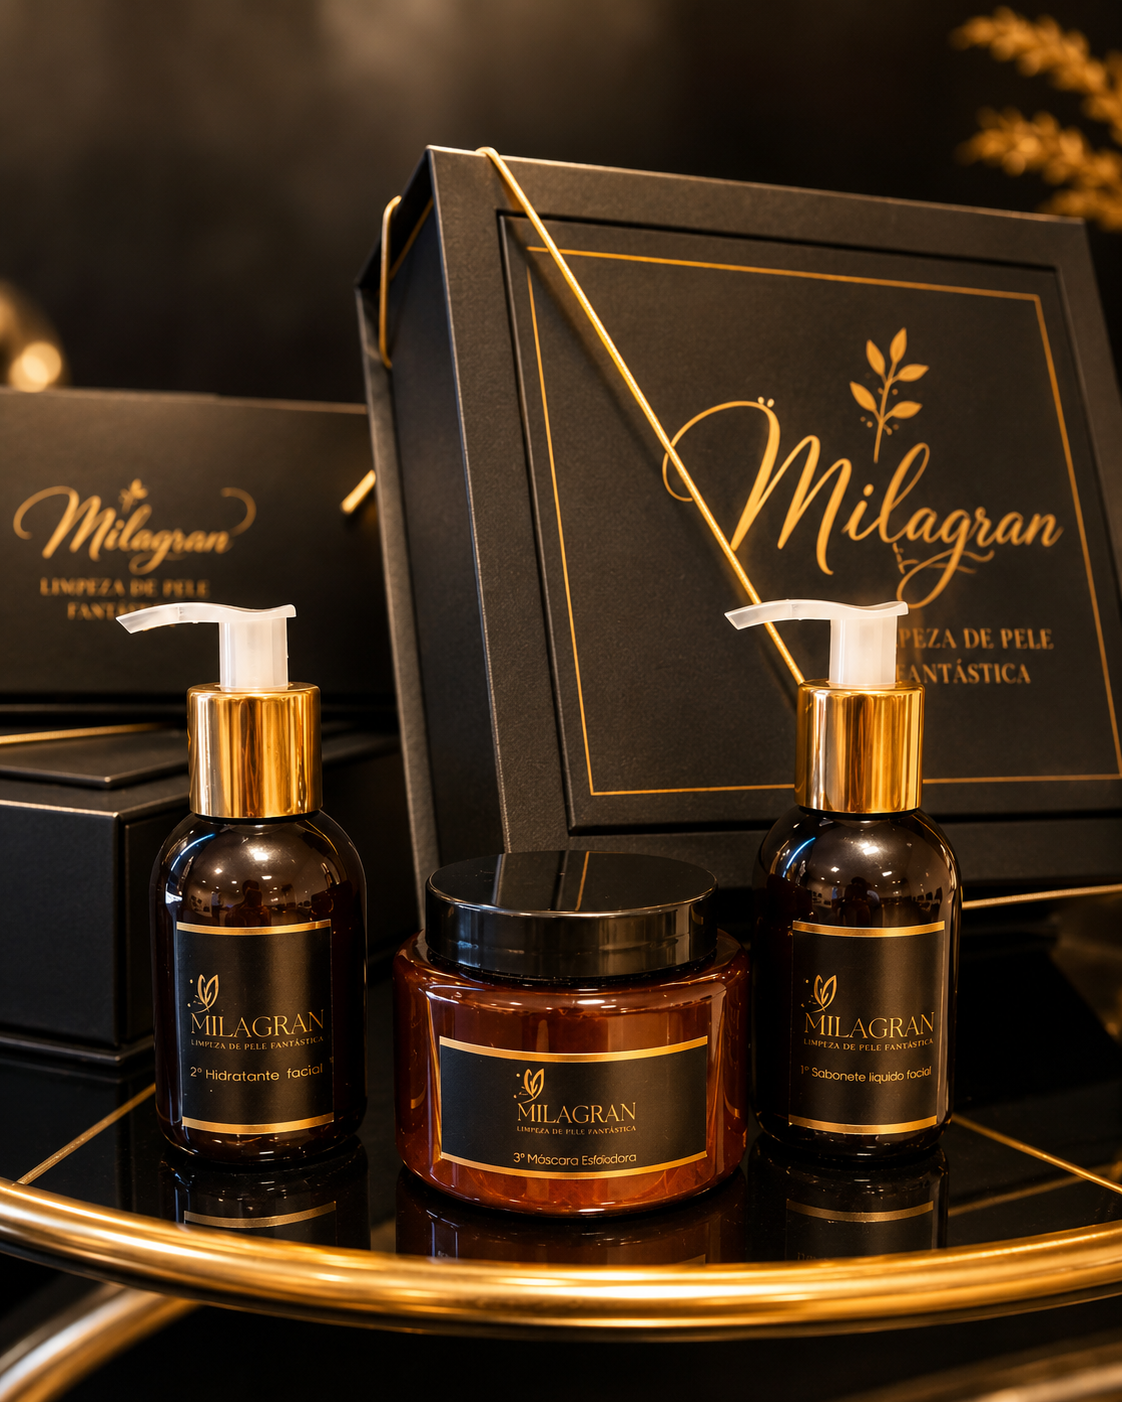
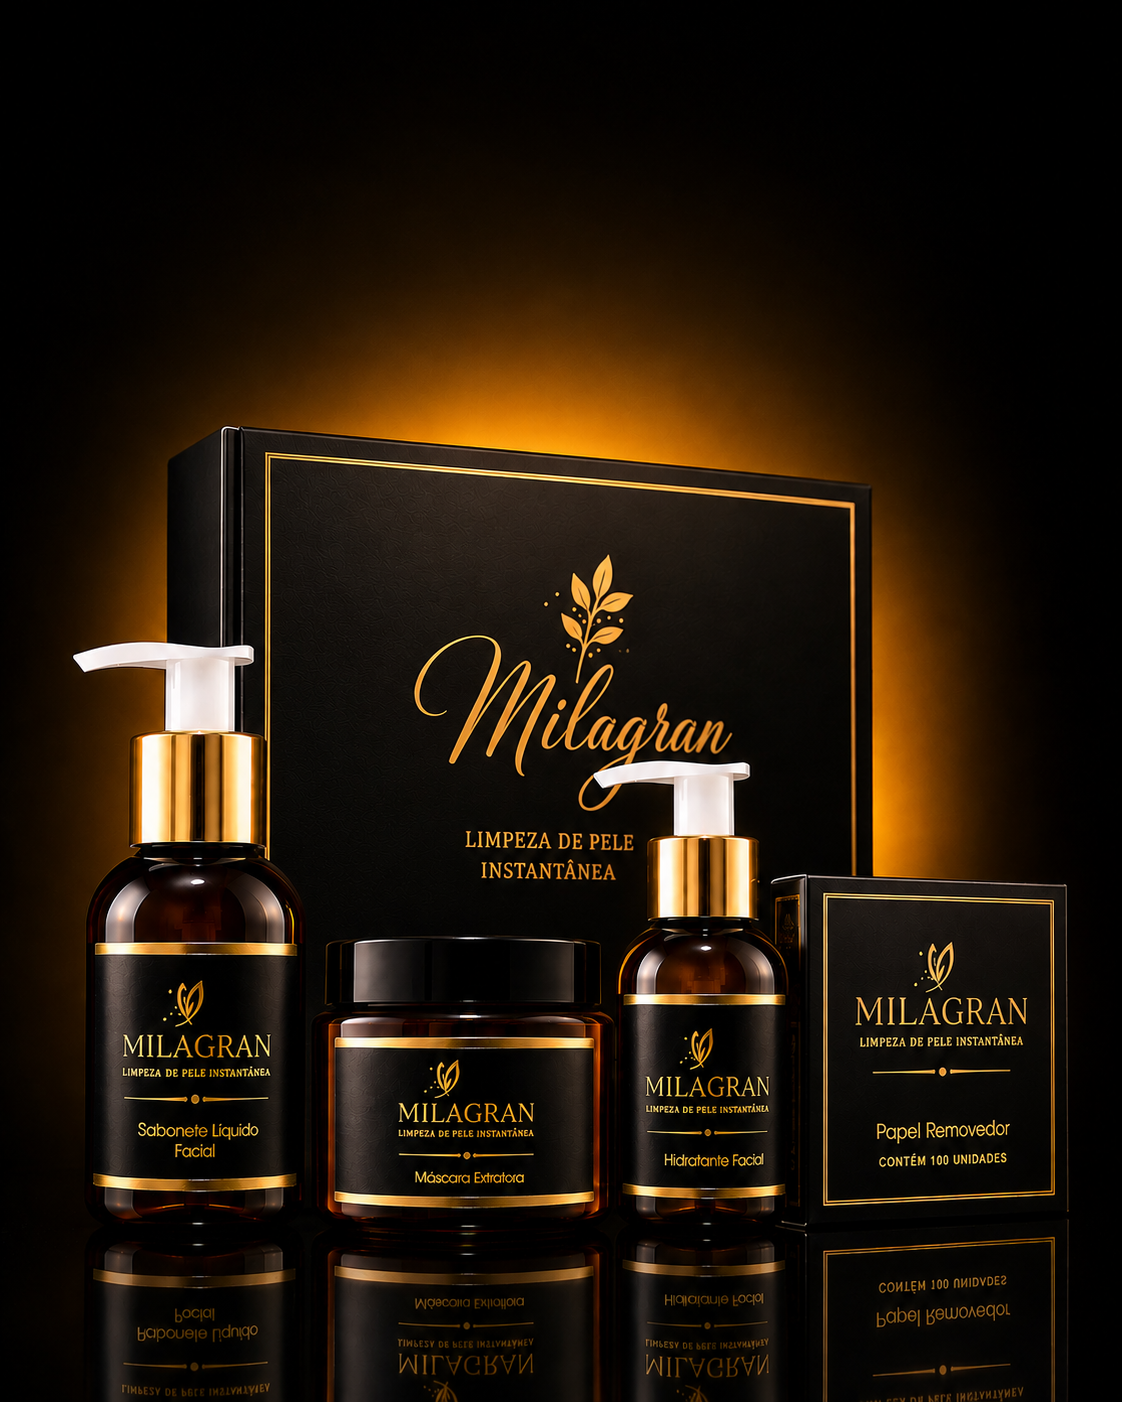
Swap the hero for the shot with the whole kit in frame
The new photograph shows the box and all four products, each label legible.
The previous one had the box and three items, with the papel removedor out of
frame.

SO THE ALT TEXT CHANGED WITH IT, and that is the part worth naming. The old
description listed three products and the code carried a comment explaining why
the fourth was missing from it. Replacing the file and leaving that line alone
is the quiet way a description rots: nothing breaks, nothing warns, and the one
person who depends on the alt starts receiving an inventory that does not match
the picture.

Same pipeline: 1100px, WebP 84, 1.5 MB down to 93 KB — slightly smaller than
the photo it replaces despite holding more.

A NOTE FROM COMPARING QUALITIES A SECOND TIME, written into the manifest so it
does not cost the same detour again: amplifying the dark gradient 3.5x makes
q84 look blocky and alarming. At real brightness — which is how the buyer sees
it — q84 and q90 are indistinguishable, because the artefact lives in
near-black values nobody perceives. Compare at real brightness before spending
the extra 30 KB.

The previous hero master is replaced in design/ and stays recoverable in git
history.

diff --git a/src/lib/fotos.ts b/src/lib/fotos.ts
@@ -47,13 +47,20 @@
  * somavam 6,5 MB e as publicadas somam 127 KB.
  *
  * COMO A DO HERO FOI PREPARADA, para as proximas seguirem o mesmo caminho: o
- * arquivo original tinha 1,9 MB em PNG. Foi reduzido para 1100px de largura —
+ * arquivo original tinha 1,5 MB em PNG. Foi reduzido para 1100px de largura —
  * o dobro da coluna em que ele aparece no desktop (~490px), o que cobre tela
- * de densidade 2x — e salvo em WebP com qualidade 84, chegando a 121 KB. As
- * qualidades 78/84/90 foram comparadas: 84 e onde a curva para de valer a pena,
- * e os gradientes escuros da foto (onde WebP costuma criar bandas) foram
- * conferidos ampliados antes de publicar. Os originais ficam em `design/`, para
- * que um recorte novo saia da foto e nao de um JPEG ja comprimido.
+ * de densidade 2x — e salvo em WebP com qualidade 84, chegando a 93 KB. As
+ * qualidades 78/84/90 foram comparadas duas vezes (a foto do hero foi trocada
+ * em 20/08/2026) e 84 venceu nas duas.
+ *
+ * UMA LICAO DA SEGUNDA COMPARACAO, para nao custar tempo de novo: ampliar o
+ * gradiente escuro em 3,5x faz o q84 parecer blocado e assusta. No brilho REAL
+ * — que e como a compradora ve — q84 e q90 sao indistinguiveis, e o artefato
+ * vive em valores quase pretos que ninguem percebe. Compare no brilho real
+ * antes de gastar 30 KB a mais.
+ *
+ * Os originais ficam em `design/`, para que um recorte novo saia da foto e nao
+ * de um JPEG ja comprimido.
  *
  * TAMANHO. A foto do hero e a unica com `preload` (§33): ela e o maior
  * elemento acima da dobra e define o LCP. Mire abaixo de 250 KB nela; as
@@ -80,14 +87,21 @@ export type Foto = {
 export const FOTO_HERO: Foto = {
   src: '/assets/kit/kit-milagran-hero.webp',
   /*
-    O `alt` DESCREVE O QUE A FOTO MOSTRA, e nao o que gostariamos que ela
-    mostrasse: sao a caixa e TRES frascos. O papel removedor, que e o quarto
-    item do kit, nao aparece nesta imagem — prometer os quatro aqui seria a
-    unica pessoa que depende do `alt` recebendo uma descricao que nao bate com
-    a foto ao lado do texto.
+    O `alt` DESCREVE O QUE A FOTO MOSTRA, e ele MUDOU JUNTO COM A FOTO em
+    20/08/2026.
+    A imagem anterior trazia a caixa e apenas tres itens, e este texto dizia
+    isso, com o comentario explicando que o papel removedor ficava de fora. A
+    nova mostra o kit COMPLETO — os quatro produtos, cada um com o rotulo
+    legivel.
+
+    Trocar o arquivo sem trocar esta linha e o jeito silencioso de a descricao
+    apodrecer: nada quebra, nada avisa, e quem depende do texto alternativo
+    passa a receber um inventario que nao bate com a foto. E o mesmo cuidado
+    que o `alt` do papel removedor exige logo abaixo.
   */
-  alt: 'A caixa preta do Kit Milagran, com o nome em dourado, ao lado dos frascos '
-    + 'do sabonete líquido, do hidratante e do pote da máscara, sobre uma bandeja espelhada',
+  alt: 'O Kit Milagran completo: a caixa preta com o nome em dourado e, à frente, '
+    + 'o sabonete líquido facial, a máscara extratora, o hidratante facial e a '
+    + 'caixa do papel removedor',
   largura: 1100,
   altura: 1375,
 }
@@ -109,12 +123,12 @@ export type ProdutoDoKit = 'sabonete' | 'mascara' | 'papel' | 'hidratante'
   As fotos oficiais vem em 2:3 (1024x1536), com o produto centrado e fundo
   escuro em volta. Recortar aquilo num quadrado centrado corta a VALVULA do
   sabonete, que fica na parte alta do quadro — o card mostraria um frasco
-  decapitado. Em 3:4 o corte come so fundo, nas duas fotos ja entregues.
+  decapitado. Em 3:4 o corte come so fundo, nas quatro.
 
-  `object-fit: cover` continua em .kit-card__foto de proposito, mesmo com os
-  arquivos ja publicados na proporcao certa: faltam duas fotos, e se elas
-  chegarem em outro enquadramento a grade continua uniforme em vez de ganhar um
-  card mais alto que os outros.
+  `object-fit: cover` continua em .kit-card__foto de proposito, mesmo com as
+  quatro ja publicadas na proporcao certa: uma foto substituida um dia (arte
+  nova, produto reformulado) pode chegar em outro enquadramento, e a grade
+  continua uniforme em vez de ganhar um card mais alto que os outros.
 */
 export const FOTOS_DOS_PRODUTOS: Record<ProdutoDoKit, Foto> = {
   sabonete: {
